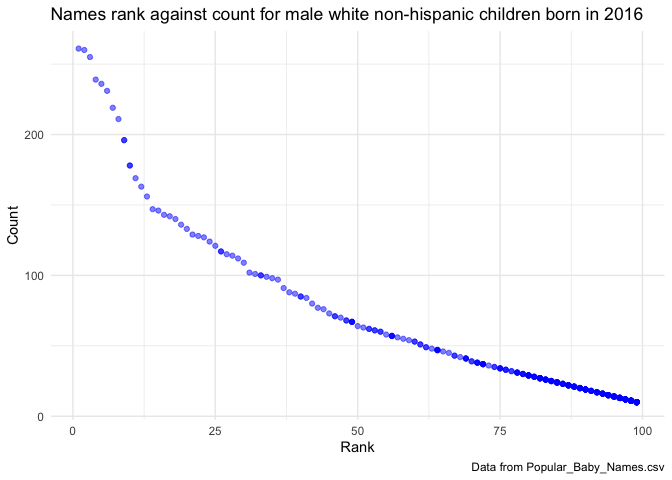
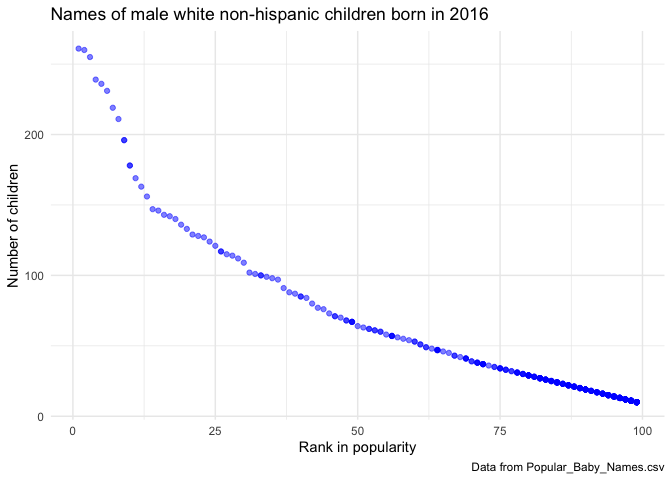
modify the male_name_table and the lables of final plot

Changed region(s): [[0.1562, 0.0, 0.9688, 0.0625], [0.4375, 0.9062, 0.625, 0.9688], [0.0, 0.3438, 0.0312, 0.5938]]

diff --git a/p8105_hw2_rz2570.md b/p8105_hw2_rz2570.md
@@ -229,19 +229,14 @@ olivia_table = pivot_wider(
 
 ``` r
 # produce a similar table showing the most popular name among male children over time
-male_name_df = filter(names_df, gender == "MALE") %>% 
-  arrange(-count)
-
-jayden_df = filter(
-  male_name_df,
-  childs_first_name == "JAYDEN") %>% 
-  select(-c(childs_first_name, gender, count)) %>% 
+male_name_df = filter(names_df, gender == "MALE", rank == "1") %>% 
+  select(-c(gender, count, rank)) %>% 
   arrange(year_of_birth)
 
-jayden_table = pivot_wider(
-  jayden_df,
+male_name_table = pivot_wider(
+  male_name_df,
   names_from = "year_of_birth",
-  values_from = "rank"
+  values_from = "childs_first_name"
 )
 ```
 
@@ -259,9 +254,9 @@ ggplot(plot_data, aes(x = rank, y = count)) +
   geom_point(alpha = .5, color = "blue") + 
   theme_minimal() +
   labs(
-    title = "Names rank against count for male white non-hispanic children born in 2016",
-    x = "Rank",
-    y = "Count",
+    title = "Names of male white non-hispanic children born in 2016",
+    x = "Rank in popularity",
+    y = "Number of children",
     caption = "Data from Popular_Baby_Names.csv")
 ```
 
